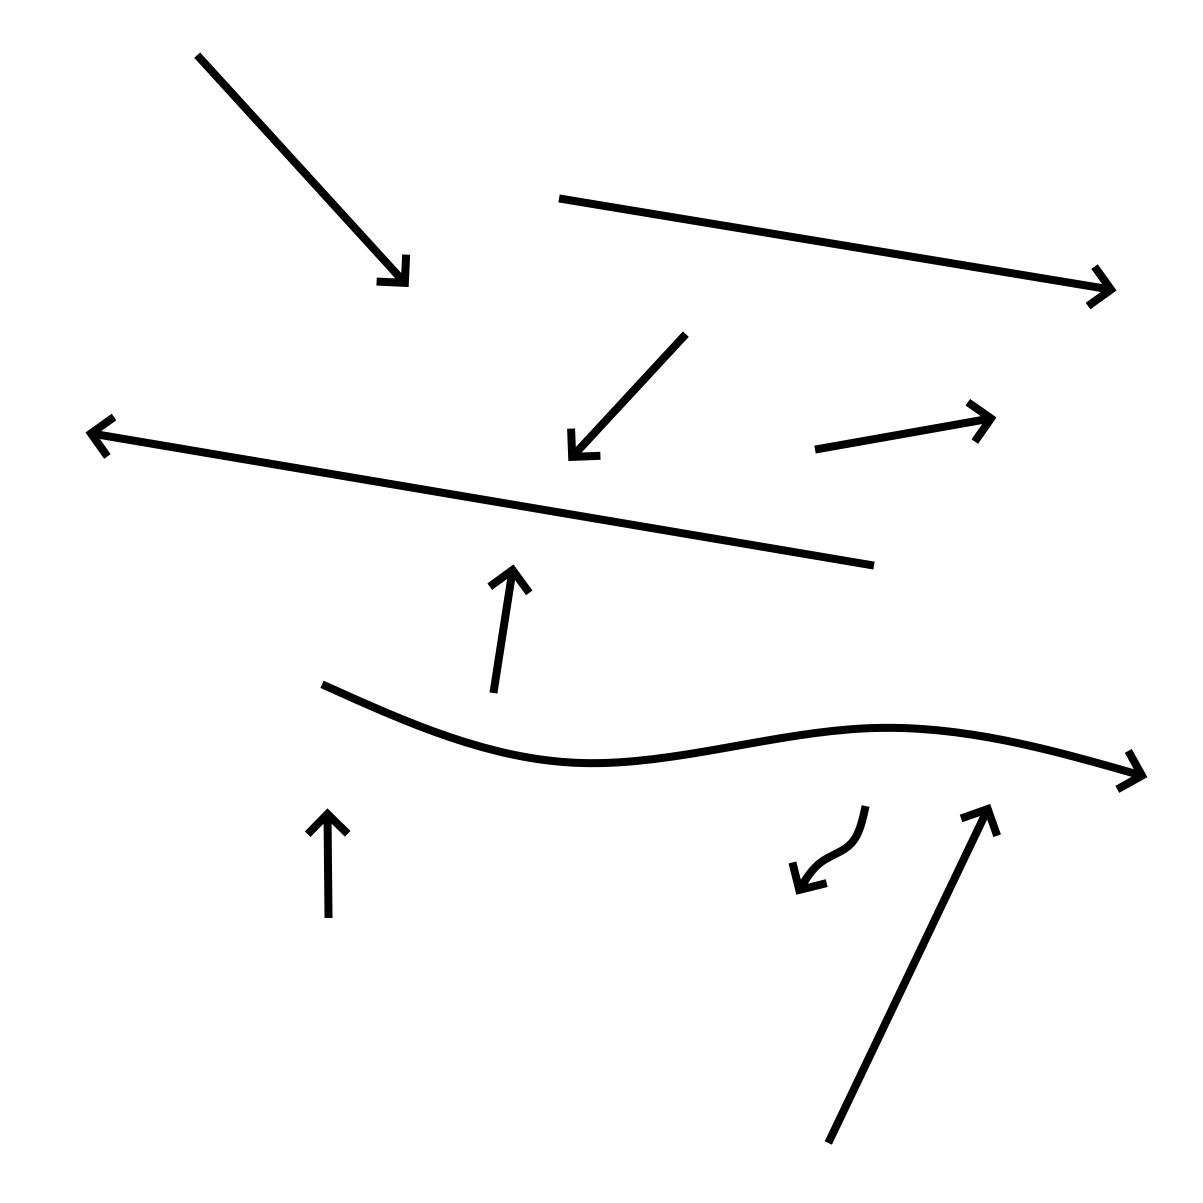
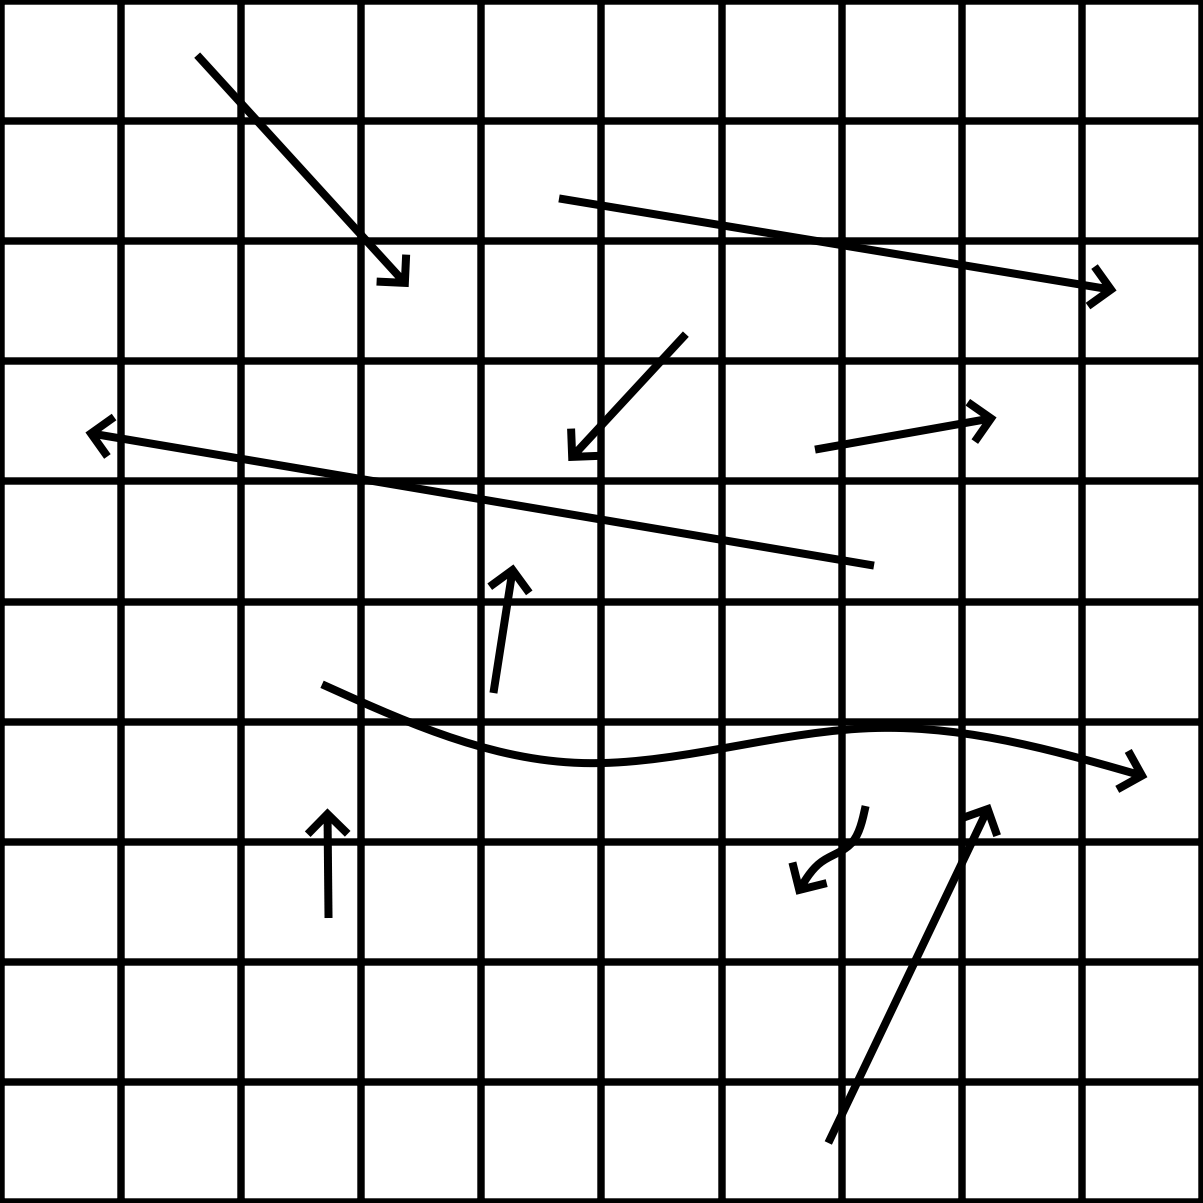
win condition +other tihngs

Changed region(s): [[0.0, 0.0, 1.0, 1.0]]

diff --git a/DoorDash/src/game/engine/gui/GameController.java b/DoorDash/src/game/engine/gui/GameController.java
@@ -22,6 +22,7 @@ import javafx.scene.text.Text;
 import javafx.geometry.HPos;
 import javafx.geometry.VPos;
 
+import java.io.IOException;
 import java.util.Random;
 
 public class GameController {
@@ -187,7 +188,6 @@ public class GameController {
                 	}
                 	else
                 	{
-                		System.out.println("Door is inactivate");
                 		imageName = getOriginalSpriteName(i,j);
                     	if(i==9 && j==0)imageName = "booinactive.png";
                 	}
@@ -214,7 +214,56 @@ public class GameController {
         int[] playerIndex = indexToRowCol(player.getPosition());
         int[] opponentIndex = indexToRowCol(opponent.getPosition());
         setSprite(playerSprite,playerIndex[0],playerIndex[1]);
+        setSprite("playerborder.png",playerIndex[0],playerIndex[1]);
         setSprite(opponentSprite,opponentIndex[0],opponentIndex[1]);
+        setSprite("opponentborder.png",opponentIndex[0],opponentIndex[1]);
+        
+        if (gameEngine.getWinner() != null) {
+            Monster winner = gameEngine.getWinner();
+            
+            // 1. Create a custom popup window
+            javafx.stage.Stage popup = new javafx.stage.Stage();
+            popup.initModality(javafx.stage.Modality.APPLICATION_MODAL); // Blocks clicks to the main game
+            popup.setTitle("Game Over!");
+
+            // 2. Set up the layout
+            javafx.scene.layout.VBox layout = new javafx.scene.layout.VBox(20);
+            layout.setAlignment(javafx.geometry.Pos.CENTER);
+            
+            // 3. Add the winner text
+            javafx.scene.control.Label title = new javafx.scene.control.Label("Winner: " + winner.getName() + "!");
+            title.setStyle("-fx-font-size: 24px; -fx-font-weight: bold;");
+            
+            javafx.scene.control.Label details = new javafx.scene.control.Label(
+                "Role: " + winner.getOriginalRole() + "\n\n" +
+                "Final Scores:\n" +
+                player.getName() + " Energy: " + player.getEnergy() + "\n" +
+                opponent.getName() + " Energy: " + opponent.getEnergy()
+            );
+            details.setStyle("-fx-font-size: 16px; -fx-alignment: center; -fx-text-alignment: center;");
+            
+            // 4. Add the return button
+            javafx.scene.control.Button returnBtn = new javafx.scene.control.Button("Return to Main Menu");
+            returnBtn.setStyle("-fx-font-size: 16px; -fx-padding: 10px;");
+            returnBtn.setOnAction(e -> {
+                popup.close(); // Close the popup
+                
+                // Transition the main screen
+                try {
+                    javafx.scene.Parent root = javafx.fxml.FXMLLoader.load(getClass().getResource("mainmenu.fxml"));
+                    javafx.stage.Stage mainStage = (javafx.stage.Stage) boardGrid.getScene().getWindow();
+                    mainStage.setScene(new javafx.scene.Scene(root, 1280, 800));
+                } catch (java.io.IOException ex) {
+                    ex.printStackTrace();
+                }
+            });
+            
+            // 5. Display the popup
+            layout.getChildren().addAll(title, details, returnBtn);
+            javafx.scene.Scene scene = new javafx.scene.Scene(layout, 400, 300);
+            popup.setScene(scene);
+            popup.showAndWait();
+        }
     }
 
 